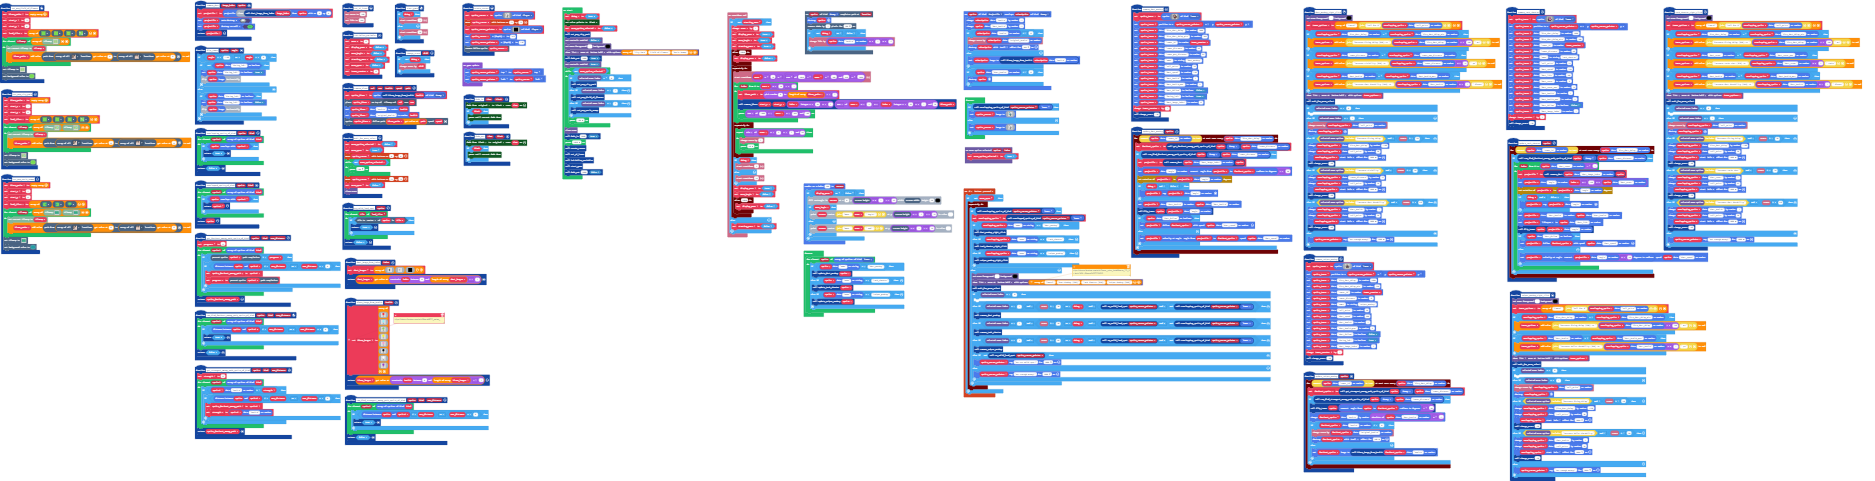
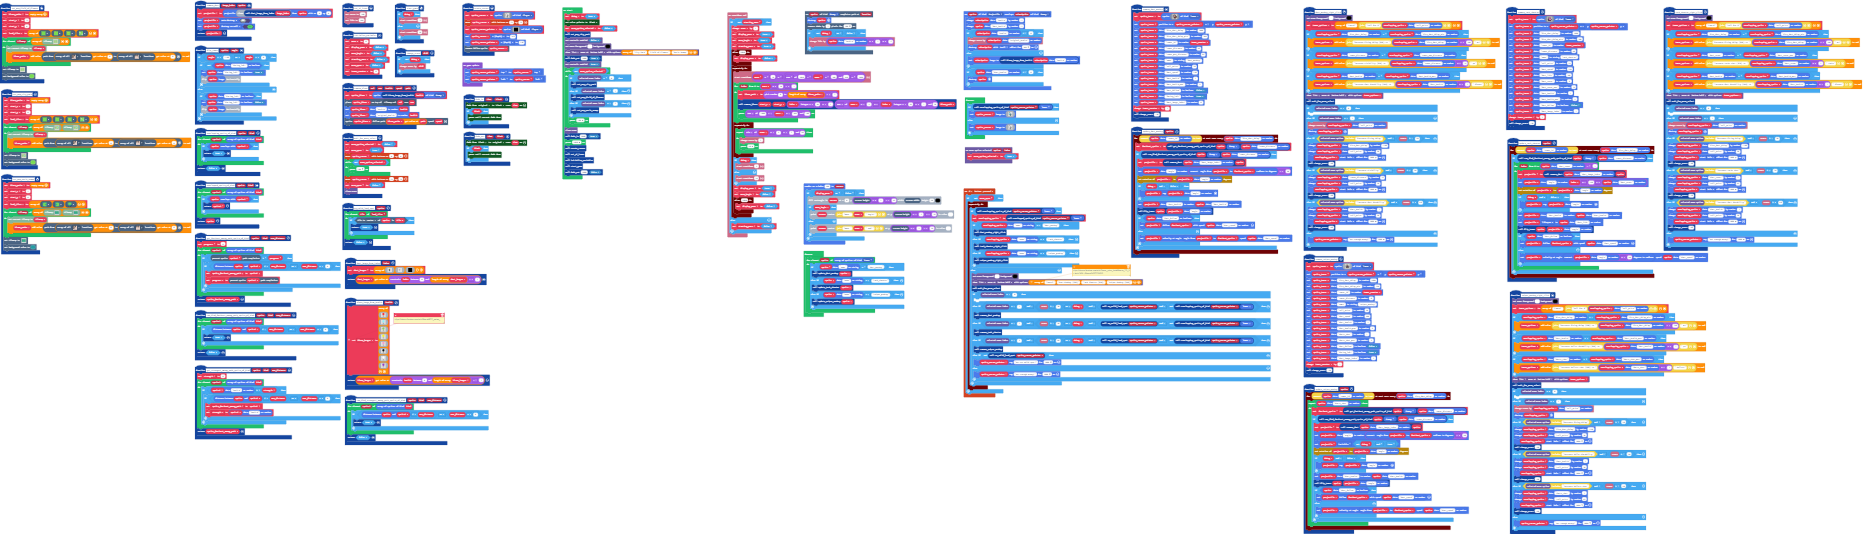
Add third upgrade for snipers

diff --git a/main.ts b/main.ts
@@ -11,15 +11,23 @@ function initialize_variables () {
 }
 function update_sniper_monkey (sprite: Sprite) {
     timer.throttle(convertToText(sprites.readDataNumber(sprite, "tower_id")), sprites.readDataNumber(sprite, "fire_dart_delay"), function () {
-        farthest_sprite = get_strongest_among_path_sprite_of_kind(sprite, SpriteKind.Enemy, sprites.readDataNumber(sprite, "tower_distance"))
-        if (can_find_strongest_among_path_sprite_of_kind(sprite, SpriteKind.Enemy, sprites.readDataNumber(sprite, "tower_distance"))) {
-            flip_tower(sprite, spriteutils.radiansToDegrees(spriteutils.angleFrom(sprite, farthest_sprite)) - 90)
-            sprites.changeDataNumberBy(farthest_sprite, "health", Math.abs(sprites.readDataNumber(sprite, "dart_health")) * -1)
-            if (sprites.readDataNumber(farthest_sprite, "health") <= 0) {
-                info.changeScoreBy(sprites.readDataNumber(farthest_sprite, "original_health"))
-                farthest_sprite.destroy(effects.trail, 100)
-            } else {
-                farthest_sprite.setImage(bloon_image_from_health(sprites.readDataNumber(farthest_sprite, "health")))
+        for (let index = 0; index < sprites.readDataNumber(sprite, "darts_shot"); index++) {
+            farthest_sprite = get_farthest_among_path_sprite_of_kind(sprite, SpriteKind.Enemy, sprites.readDataNumber(sprite, "tower_distance"))
+            if (can_find_farthest_among_path_sprite_of_kind(sprite, SpriteKind.Enemy, sprites.readDataNumber(sprite, "tower_distance"))) {
+                projectile = summon_dart(sprites.readDataNumber(sprite, "dart_image_index"), sprite)
+                sprites.setDataNumber(projectile, "angle", spriteutils.radiansToDegrees(spriteutils.angleFrom(projectile, farthest_sprite)) - 90)
+                projectile.setFlag(SpriteFlag.Invisible, !(debug) && true)
+                transformSprites.rotateSprite(projectile, sprites.readDataNumber(projectile, "angle"))
+                if (debug && false) {
+                    projectile.say(sprites.readDataNumber(projectile, "angle"))
+                }
+                sprites.setDataNumber(projectile, "dart_health", sprites.readDataNumber(sprite, "dart_health"))
+                flip_tower(sprite, sprites.readDataNumber(projectile, "angle"))
+                if (sprites.readDataBoolean(sprite, "dart_follow")) {
+                    projectile.follow(farthest_sprite, sprites.readDataNumber(sprite, "dart_speed"))
+                } else {
+                    spriteutils.setVelocityAtAngle(projectile, spriteutils.angleFrom(projectile, farthest_sprite), sprites.readDataNumber(sprite, "dart_speed"))
+                }
             }
         }
     })
@@ -61,6 +69,9 @@ function sniper_monkey_right_click () {
     if (sprites.readDataNumber(overlapping_sprite, "dart_health") < sprites.readDataNumber(overlapping_sprite, "dart_health_max")) {
         tower_options.push("Increase bullet durability ($30) to " + (sprites.readDataNumber(overlapping_sprite, "dart_health") + 1) + " px")
     }
+    if (sprites.readDataNumber(overlapping_sprite, "darts_shot") < sprites.readDataNumber(overlapping_sprite, "darts_shot_max")) {
+        tower_options.push("Increase bullets shot ($60) to " + (sprites.readDataNumber(overlapping_sprite, "darts_shot") + 1) + " bullets")
+    }
     blockMenu.showMenu(tower_options, MenuStyle.List, MenuLocation.BottomHalf)
     wait_for_menu_select()
     if (blockMenu.selectedMenuIndex() == 0) {
@@ -78,6 +89,11 @@ function sniper_monkey_right_click () {
         sprites.changeDataNumberBy(overlapping_sprite, "sell_price", 20)
         overlapping_sprite.startEffect(effects.halo, 1000)
         change_score(-30)
+    } else if (blockMenu.selectedMenuOption().includes("Increase bullets shot") && info.score() >= 60) {
+        sprites.changeDataNumberBy(overlapping_sprite, "darts_shot", 1)
+        sprites.changeDataNumberBy(overlapping_sprite, "sell_price", 45)
+        overlapping_sprite.startEffect(effects.halo, 1000)
+        change_score(-60)
     } else {
         sprite_cursor_pointer.say("Not enough money!", 1000)
     }
@@ -214,6 +230,8 @@ function summon_sniper_monkey () {
     sprites.setDataNumber(sprite_tower, "dart_speed", 500)
     sprites.setDataNumber(sprite_tower, "dart_health", 2)
     sprites.setDataNumber(sprite_tower, "dart_health_max", 6)
+    sprites.setDataNumber(sprite_tower, "darts_shot", 1)
+    sprites.setDataNumber(sprite_tower, "darts_shot_max", 3)
     sprites.setDataBoolean(sprite_tower, "dart_follow", false)
     sprites.setDataBoolean(sprite_tower, "facing_left", true)
     sprites.setDataNumber(sprite_tower, "dart_image_index", 2)
